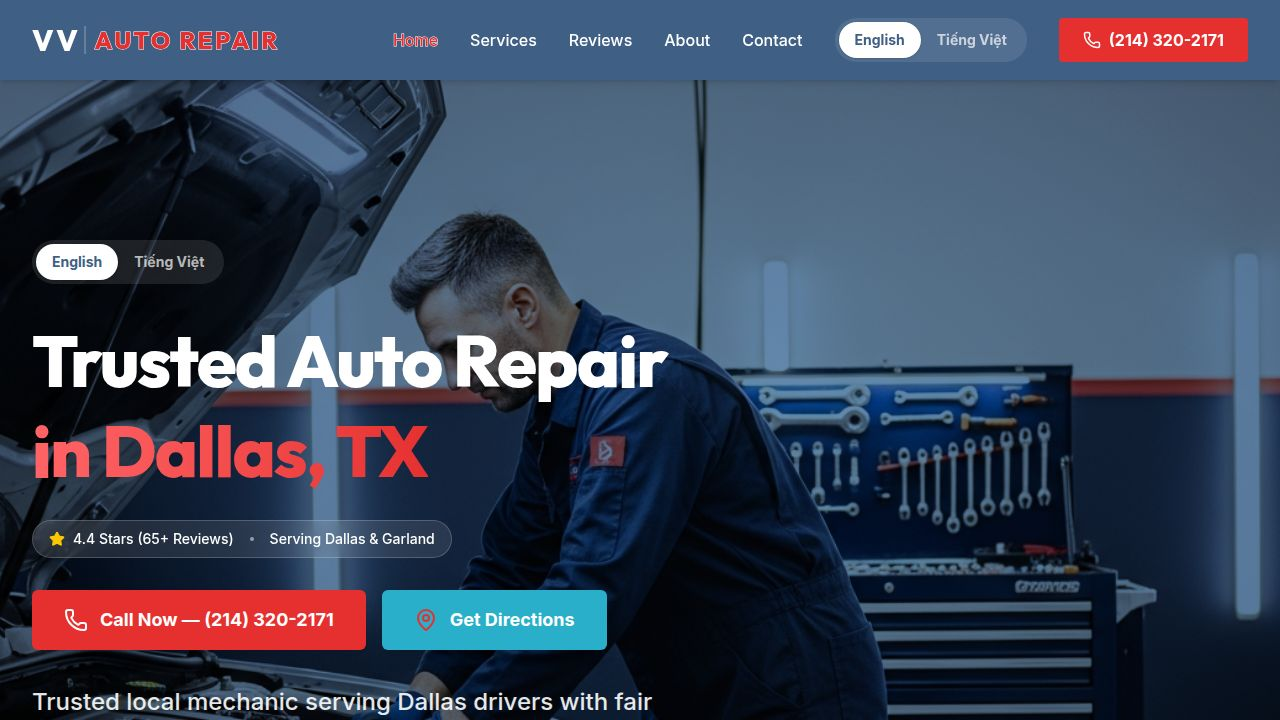
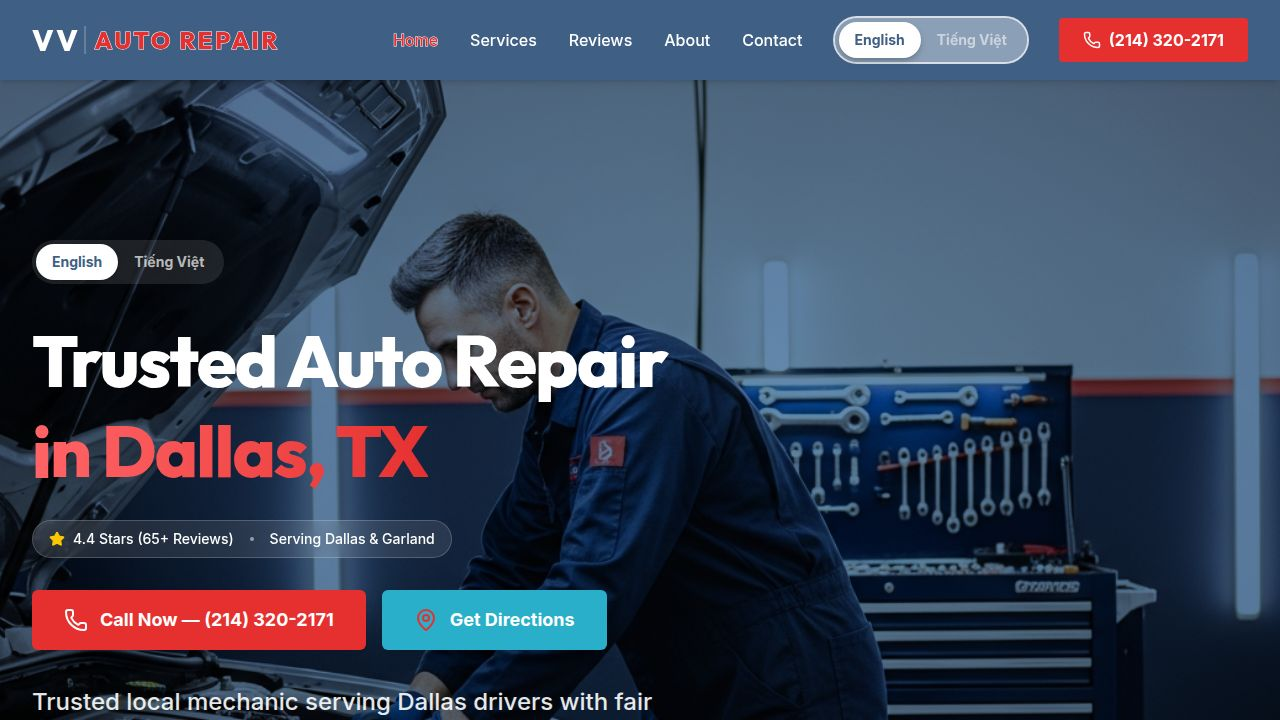
Highlight active language more clearly on website and mobile app
Task: Make the active language indicator unambiguous at a glance on both
the VV Auto website navbar and mobile app header badge.

Changes:
- Website (artifacts/vv-auto-website/src/components/layout.tsx):
  - Active button: upgraded from `font-bold shadow-sm` to `font-extrabold shadow-md drop-shadow-md`
  - Inactive button: changed from full-opacity white text to `text-white/55` (dimmed),
    so there is a clear luminance contrast between selected and unselected options
  - Applied consistently to both the desktop navbar toggle and the mobile dropdown toggle

- Mobile app (artifacts/vv-auto-mobile/app/(tabs)/_layout.tsx):
  - Added drop shadow to the headerLangBtn style (shadowColor, shadowOffset,
    shadowOpacity, shadowRadius, elevation) so the badge visually pops against
    the header background
  - Bumped fontWeight from "700" to "800" on the badge label for extra crispness

No behavioral changes — purely visual treatment improvements.

Replit-Task-Id: 8e551149-af7e-4f20-9176-1482d8a97b4f

Changed region(s): [[0.6562, 0.0, 0.8125, 0.0917], [0.625, 0.0306, 0.6562, 0.0611]]

diff --git a/artifacts/vv-auto-website/src/components/layout.tsx b/artifacts/vv-auto-website/src/components/layout.tsx
@@ -41,8 +41,8 @@ export function Navigation() {
             <div className="flex items-center bg-white/40 hover:bg-white/50 ring-2 ring-white/80 transition-all duration-300 rounded-full p-1" data-testid="language-toggle">
               <button
                 onClick={() => setLang("en")}
-                className={`px-4 py-2 rounded-full text-sm font-bold transition-all duration-150 active:scale-95 ${
-                  lang === "en" ? "bg-white text-[var(--vv-navy)] shadow-sm active:bg-white/80" : "text-white hover:text-white active:bg-white/40"
+                className={`px-4 py-2 rounded-full text-sm transition-all duration-150 active:scale-95 ${
+                  lang === "en" ? "bg-white text-[var(--vv-navy)] font-extrabold shadow-md drop-shadow-md active:bg-white/80" : "text-white/55 font-bold hover:text-white/80 active:bg-white/40"
                 }`}
                 data-testid="btn-lang-en"
               >
@@ -50,8 +50,8 @@ export function Navigation() {
               </button>
               <button
                 onClick={() => setLang("vi")}
-                className={`px-4 py-2 rounded-full text-sm font-bold transition-all duration-150 active:scale-95 ${
-                  lang === "vi" ? "bg-white text-[var(--vv-navy)] shadow-sm active:bg-white/80" : "text-white hover:text-white active:bg-white/40"
+                className={`px-4 py-2 rounded-full text-sm transition-all duration-150 active:scale-95 ${
+                  lang === "vi" ? "bg-white text-[var(--vv-navy)] font-extrabold shadow-md drop-shadow-md active:bg-white/80" : "text-white/55 font-bold hover:text-white/80 active:bg-white/40"
                 }`}
                 data-testid="btn-lang-vi"
               >
@@ -101,8 +101,8 @@ export function Navigation() {
           <div className="mt-4 flex items-center bg-white/40 hover:bg-white/50 ring-2 ring-white/80 transition-all duration-300 rounded-full p-1 w-fit" data-testid="mobile-language-toggle">
             <button
               onClick={() => setLang("en")}
-              className={`px-4 py-2 rounded-full text-sm font-bold transition-all duration-150 active:scale-95 ${
-                lang === "en" ? "bg-white text-[var(--vv-navy)] shadow-sm active:bg-white/80" : "text-white hover:text-white active:bg-white/40"
+              className={`px-4 py-2 rounded-full text-sm transition-all duration-150 active:scale-95 ${
+                lang === "en" ? "bg-white text-[var(--vv-navy)] font-extrabold shadow-md drop-shadow-md active:bg-white/80" : "text-white/55 font-bold hover:text-white/80 active:bg-white/40"
               }`}
               data-testid="btn-mobile-lang-en"
             >
@@ -110,8 +110,8 @@ export function Navigation() {
             </button>
             <button
               onClick={() => setLang("vi")}
-              className={`px-4 py-2 rounded-full text-sm font-bold transition-all duration-150 active:scale-95 ${
-                lang === "vi" ? "bg-white text-[var(--vv-navy)] shadow-sm active:bg-white/80" : "text-white hover:text-white active:bg-white/40"
+              className={`px-4 py-2 rounded-full text-sm transition-all duration-150 active:scale-95 ${
+                lang === "vi" ? "bg-white text-[var(--vv-navy)] font-extrabold shadow-md drop-shadow-md active:bg-white/80" : "text-white/55 font-bold hover:text-white/80 active:bg-white/40"
               }`}
               data-testid="btn-mobile-lang-vi"
             >

diff --git a/artifacts/vv-auto-mobile/app/(tabs)/_layout.tsx b/artifacts/vv-auto-mobile/app/(tabs)/_layout.tsx
@@ -225,10 +225,15 @@ const styles = StyleSheet.create({
     alignItems: "center",
     justifyContent: "center",
     paddingHorizontal: 8,
+    shadowColor: "#000",
+    shadowOffset: { width: 0, height: 2 },
+    shadowOpacity: 0.35,
+    shadowRadius: 4,
+    elevation: 4,
   },
   headerLangText: {
     fontSize: 11,
-    fontWeight: "700",
+    fontWeight: "800",
     letterSpacing: 0.5,
   },
   nativeHeaderBtn: {